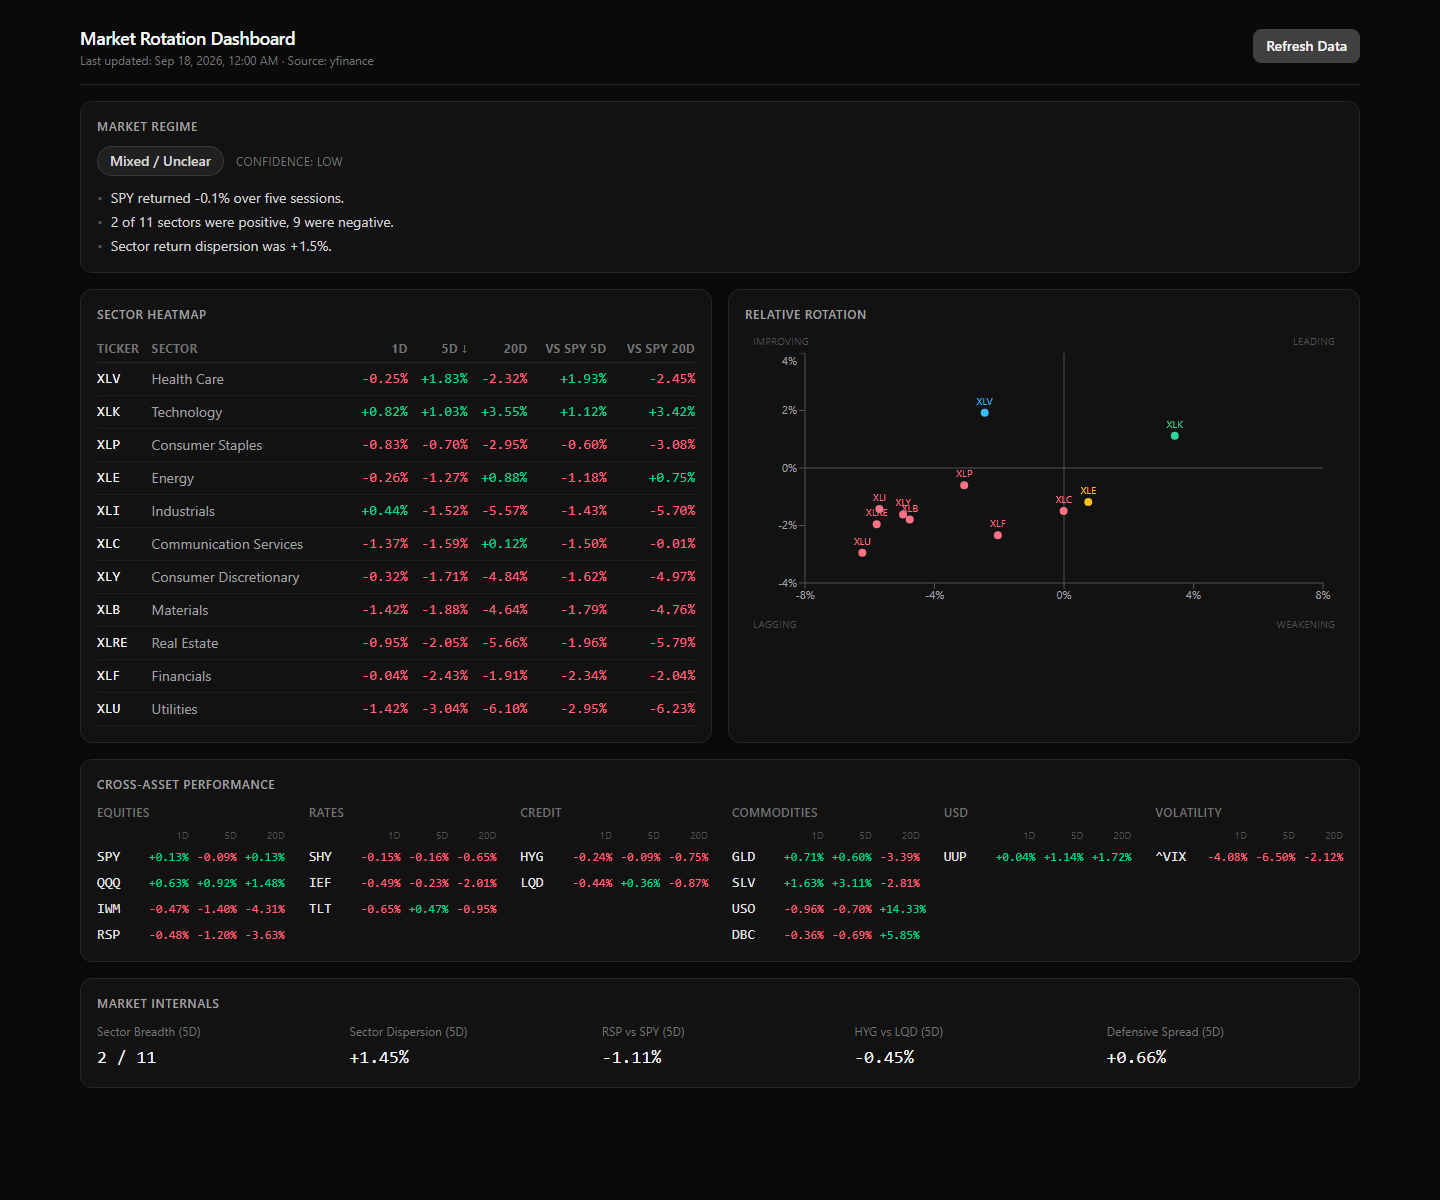
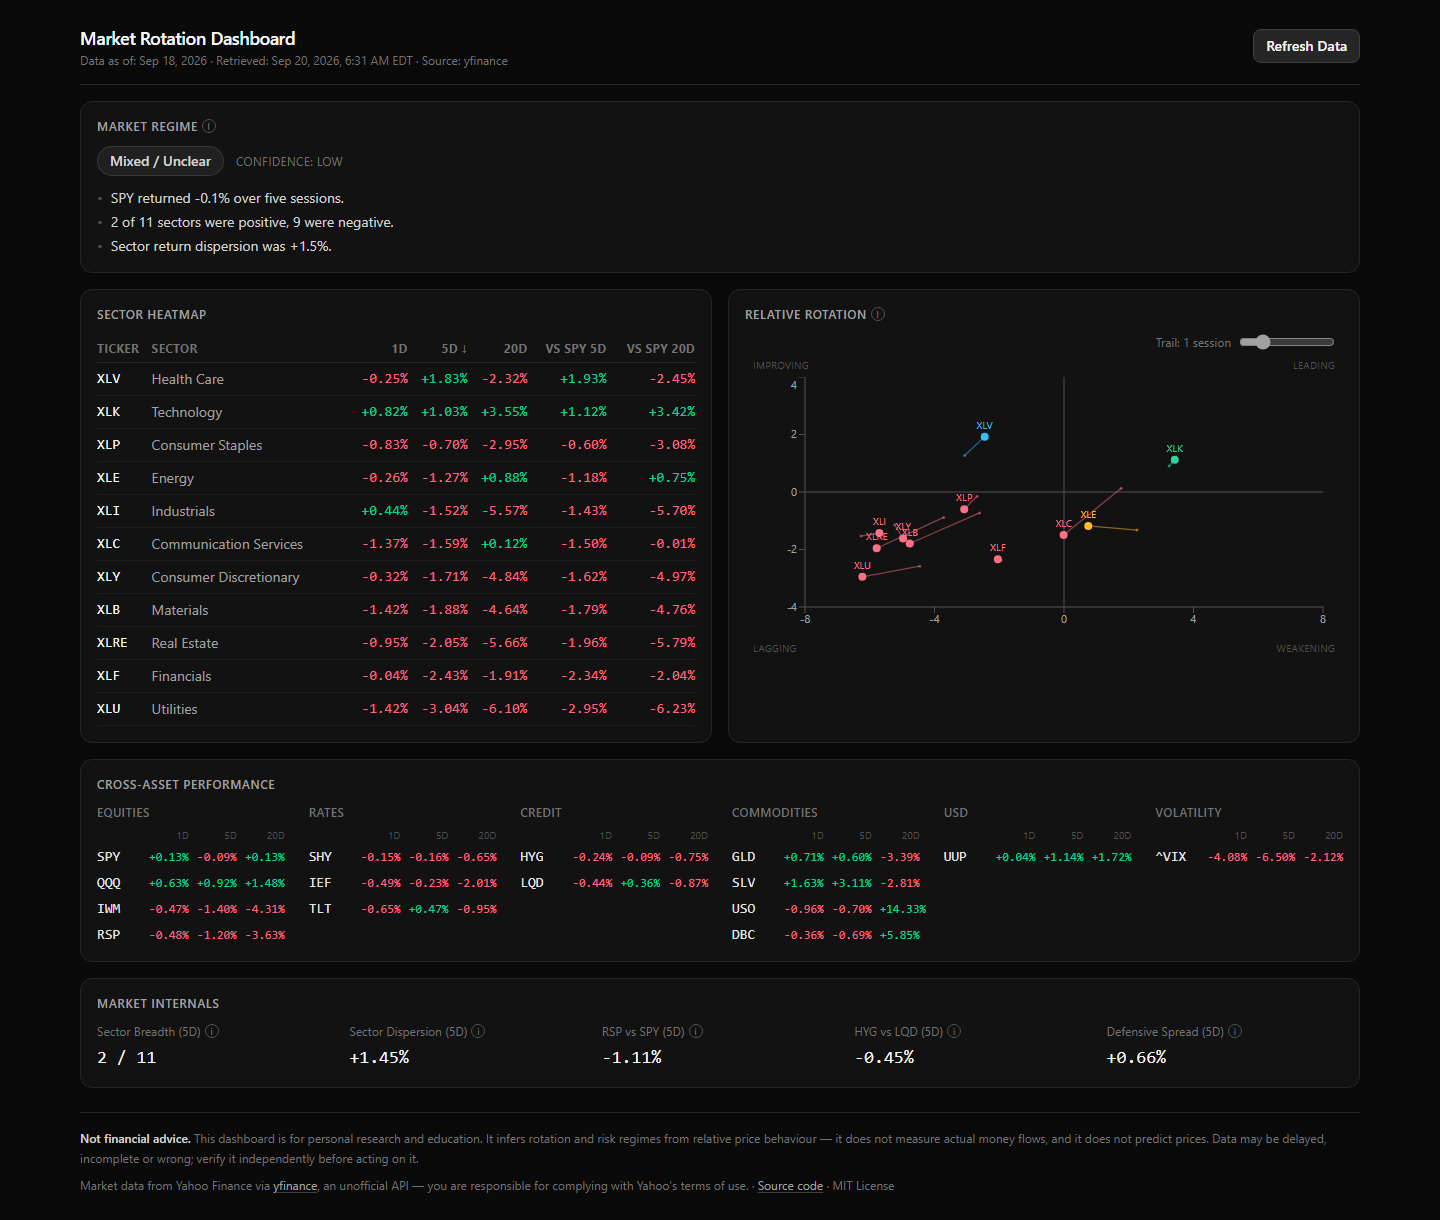
docs: reconcile docs with the code and refresh the screenshot
- CLAUDE.md ran `ruff check .`, but ruff is a uv dev dependency and is not on
  PATH; the frontend line also predated the format and coverage gates. Both now
  match what CI runs.
- README described clicking Refresh Data to populate an empty database. Startup
  now tops the cache up on its own, so the setup notes say that instead, and the
  development commands mirror CI.
- Regenerated docs/screenshots/dashboard.png. The old one predated the trail
  feature and the new header. Captured against live data in a real browser,
  pinned to America/New_York so the image carries no local timezone.

The other two doc findings from the review are already fixed: the README's dead
"Refresh behavior" link now has a section to point at, and data-methodology.md
records that breadth counts come from universe.yaml.

diff --git a/README.md b/README.md
@@ -65,10 +65,13 @@ npm install
 npm run dev                            # or, from the repo root: npm run dev:frontend
 ```
 
-Open http://localhost:5173. The database starts empty — click
-**Refresh Data** (or `curl -X POST http://localhost:8000/api/data/refresh`)
-to download ~400 days of history for the tracked universe, then the regime
-and metrics appear. No credentials are required at any step.
+Open http://localhost:5173. The database starts empty, so the first backend
+start downloads ~400 days of history for the tracked universe — give it a few
+seconds before the regime and metrics appear. After that, startup only fetches
+the sessions it is missing. **Refresh Data** (or
+`curl -X POST http://localhost:8000/api/data/refresh`) forces an update at any
+time, rate-limited to one call per 60 seconds. No credentials are required at
+any step.
 
 ## Development commands
 
@@ -78,11 +81,12 @@ cd backend
 uv run ruff check .
 uv run pytest --cov=app --cov-report=term-missing
 
-# frontend
+# frontend — same sequence CI runs
 cd frontend
+npm run format         # prettier --check
 npm run lint
 npm run type-check
-npm test
+npm run test:coverage  # fails under 80% coverage
 npm run build
 ```
 

diff --git a/CLAUDE.md b/CLAUDE.md
@@ -23,9 +23,9 @@ across sector ETFs, benchmarks, bonds, credit, commodities, USD, and VIX.
 
 ```bash
 cd backend && uv sync && uv run uvicorn app.main:app --reload
-cd backend && ruff check . && uv run pytest
+cd backend && uv run ruff check . && uv run pytest
 cd frontend && npm install && npm run dev
-cd frontend && npm run lint && npm run type-check && npm test && npm run build
+cd frontend && npm run format && npm run lint && npm run type-check && npm run test:coverage && npm run build
 ```
 
 ## Milestone rules
